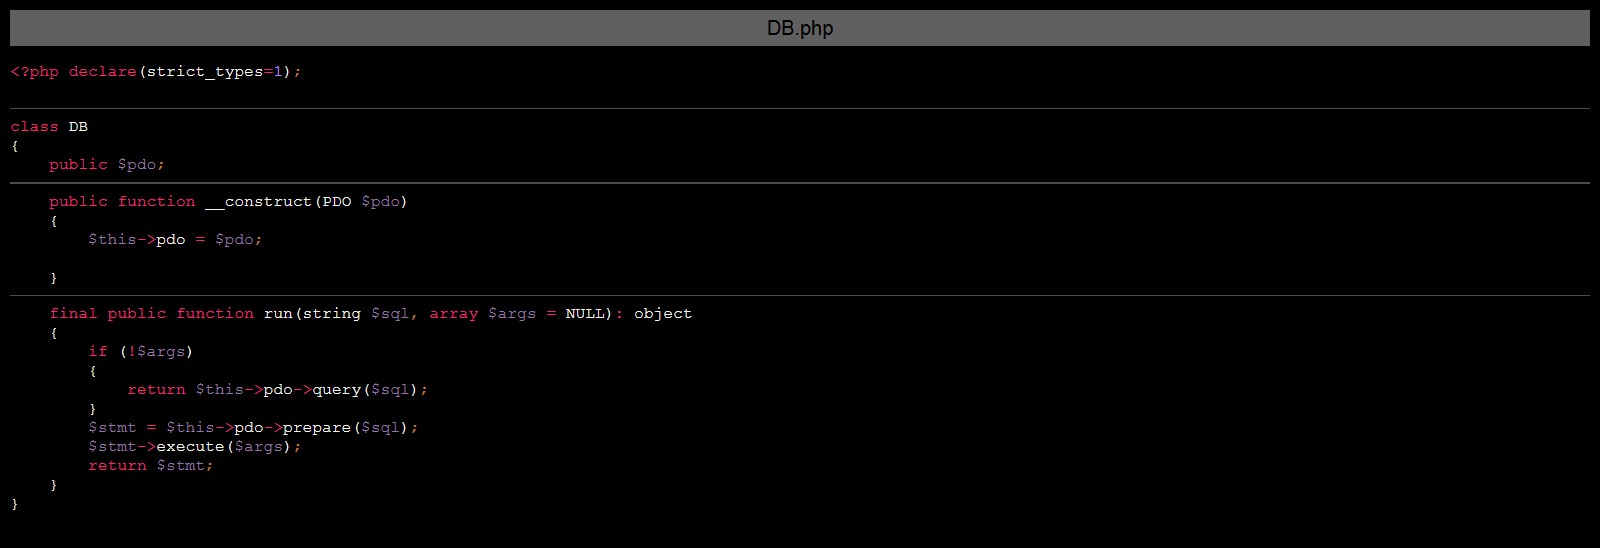
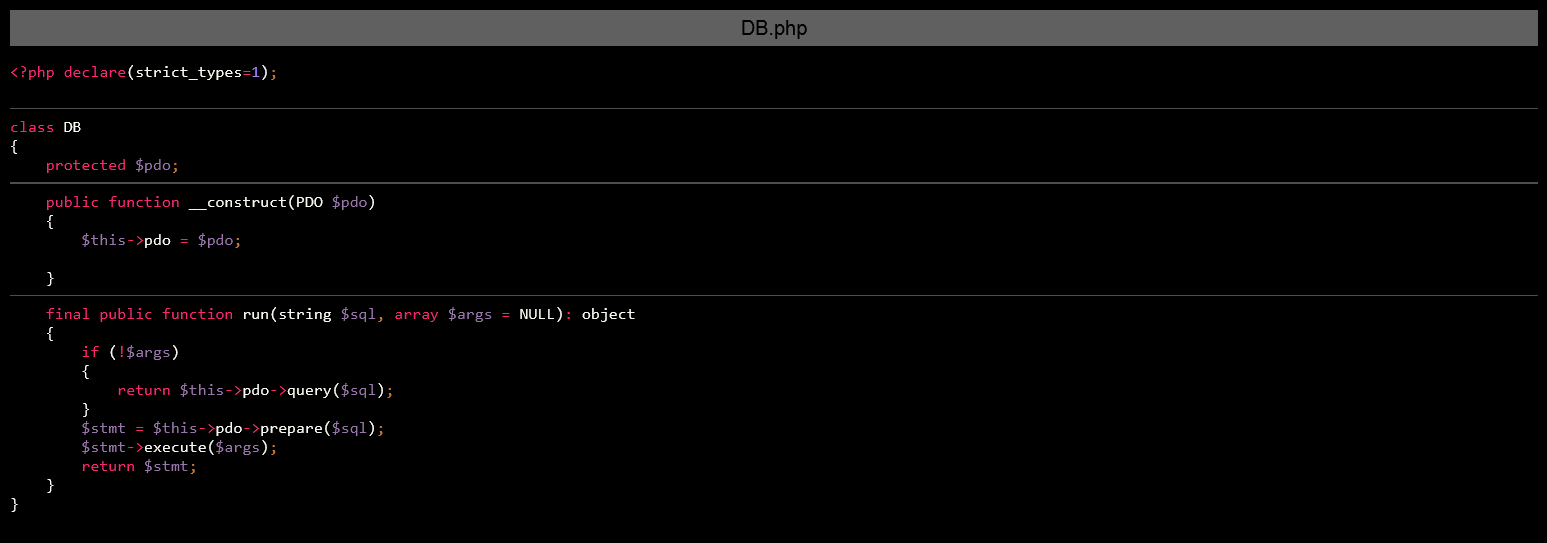
Updated Visibility to Protected

diff --git a/DB.php b/DB.php
@@ -3,7 +3,7 @@
 
 class DB
 {
-    public $pdo;
+    protected $pdo;
 
     public function __construct(PDO $pdo)
     {
